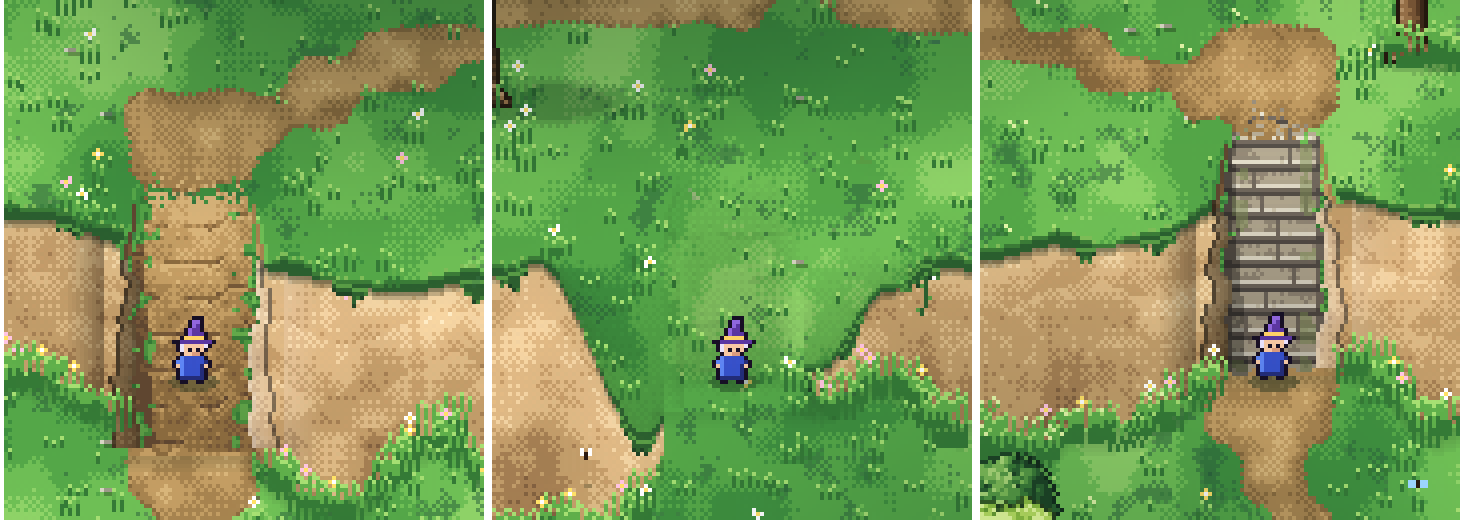
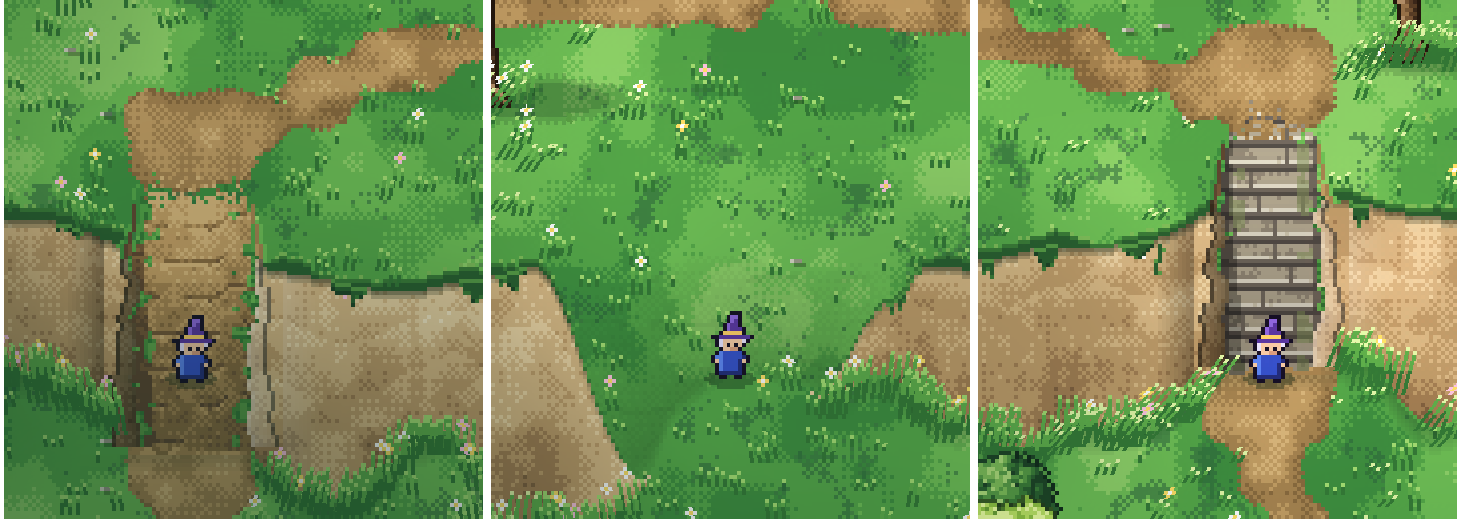
Blend grass slopes into the cliff without seams
The face beside a grass slope now sinks all the way to the foot; the slope
and the high ground rolling down on either side share one shading that only
depends on how far down the drop a pixel lies, fading out sideways; the foot
shadow, the turf lip, hanging grass and the tall grass at the foot thin out
with the remaining face height instead of stopping at the slope's edge.

Claude-Session: https://claude.ai/code/session_01Y3QepJTJgk9rCJ93wTDK78

diff --git a/CHANGELOG.md b/CHANGELOG.md
@@ -2,6 +2,12 @@
 
 按时间倒序记录每次更新。版本号用 `0.主版本.小版本`：画面方向或架构发生变化时加主版本号，同一方向上的调整加小版本号。括号里是对应的提交。
 
+## v0.11.3 · 草坡去掉拼接痕迹（2026-10-12）
+
+- 草坡两侧的岩壁现在一直降到地面，贴着坡道的地方高度为零，不再留下一小截矮墙形成台阶。
+- 草坡和两侧滚下来的上层地面用同一套阴影：只按"下到坡的哪个位置"变深，往两侧逐渐减弱，不再有竖直的明暗分界线。
+- 崖脚阴影、崖顶的深绿草边、垂下的草和崖脚高草都随岩壁高度一起变淡、变少，不会在坡道边上突然断掉。
+
 ## v0.11.2 · 树摆动修复、花树重画（2026-10-12）
 
 - **树摆动过快、闪烁**：风的时钟原来用的是现实时间，录视频（比实时慢）或者游戏卡顿时，树会摆得飞快，几层树冠一格一格地跳，看起来在闪。现在改用游戏时间，树冠按 1/3 像素平滑摆动。
